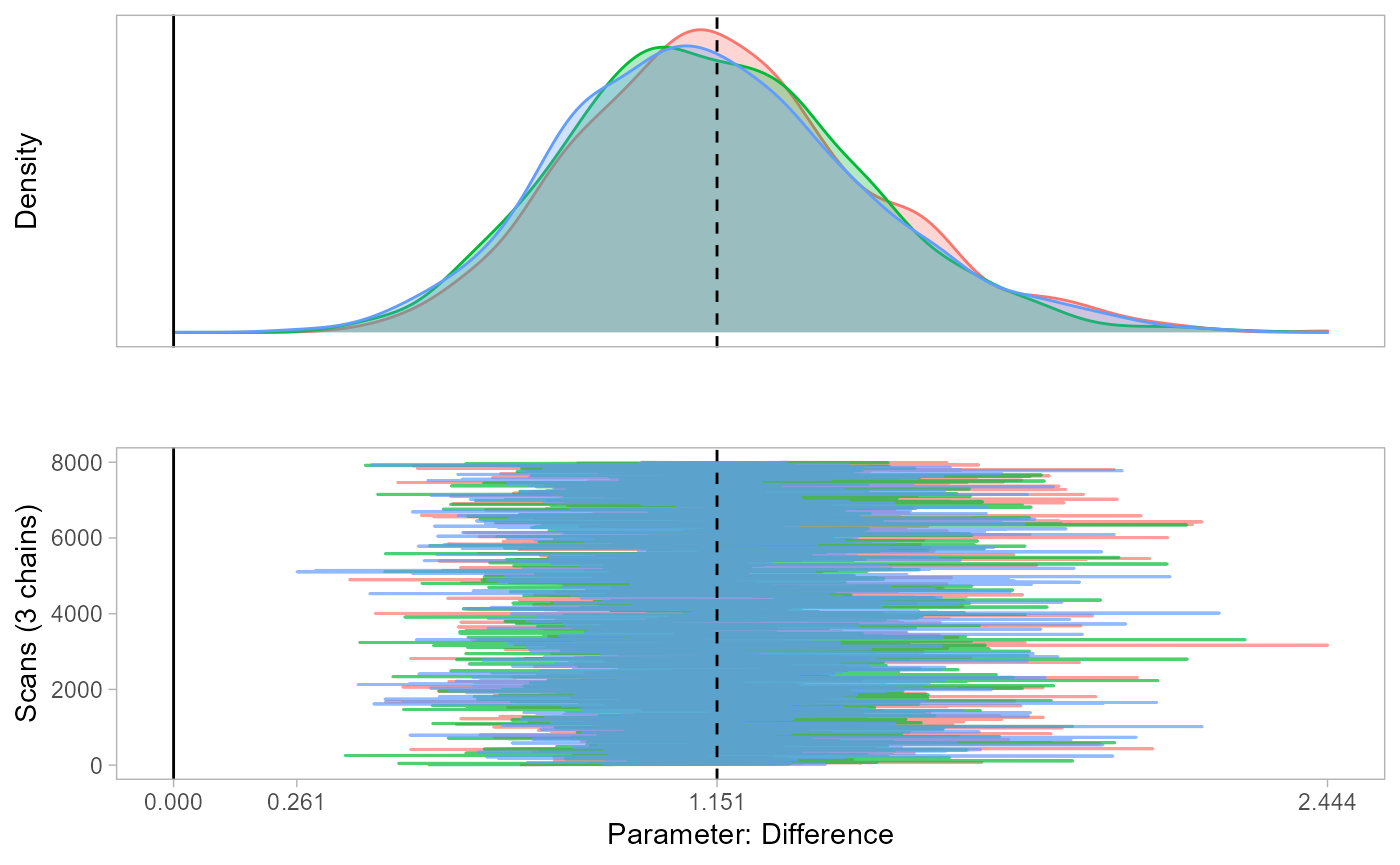
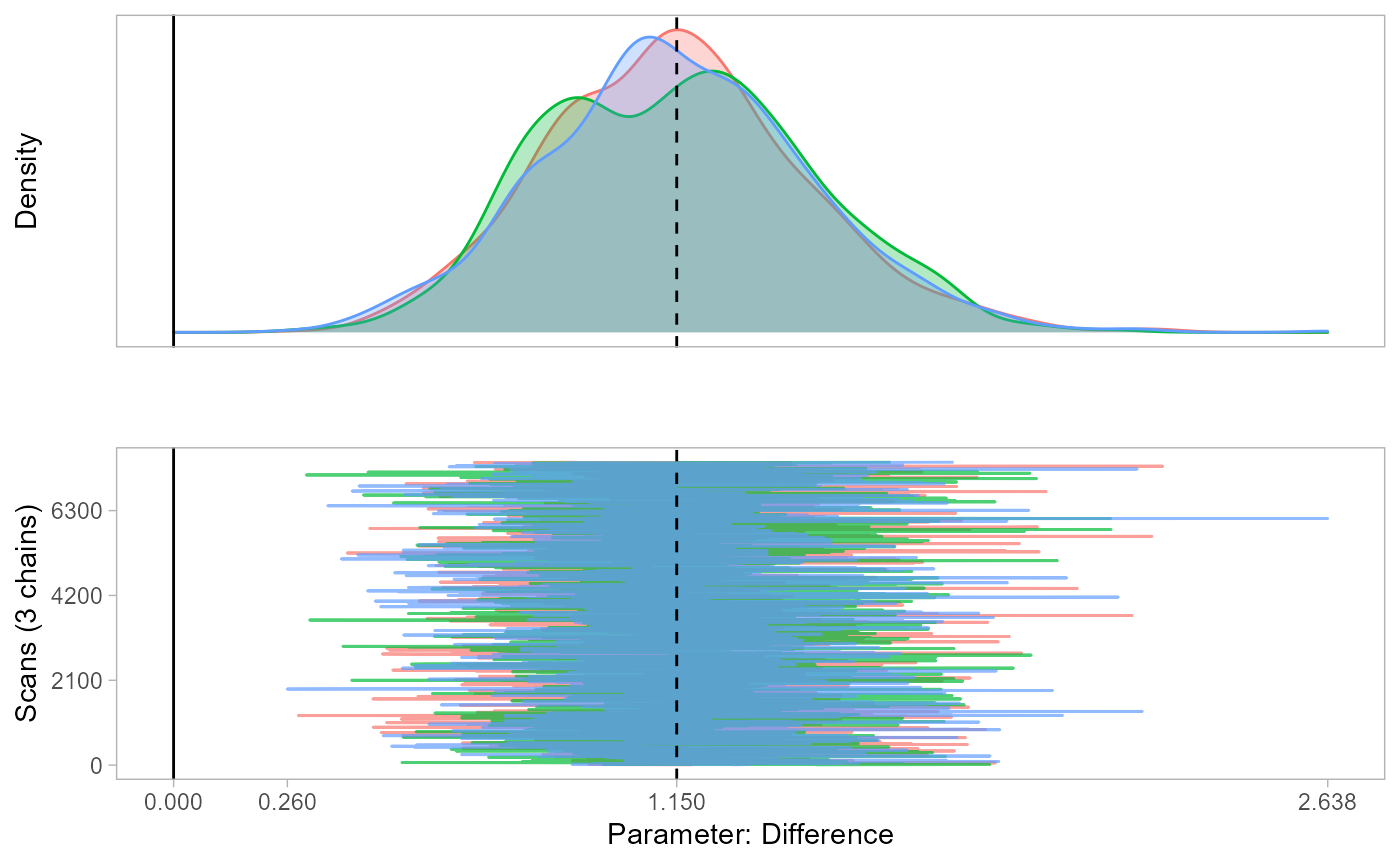
Website update

diff --git a/docs/articles/examples.html b/docs/articles/examples.html
@@ -112,8 +112,8 @@
 <div id="e1" class="section level3">
 <h3 class="hasAnchor">
 <a href="#e1" class="anchor" aria-hidden="true"></a>The effect of air quality on home values</h3>
-<p>The R file of this example can be found <a href="https://benrosche.github.io/rmm/articles/examples_files/mmmm_spatial.Rmd">here</a>.</p>
-<p>This <strong>spatial analysis</strong> example is based on <a href="https://www.sciencedirect.com/science/article/abs/pii/0095069678900062" class="external-link">Harrison &amp; Rubenfield 1978</a>, who study the effect of air quality on home values.</p>
+<p>The R file of this example can be found <a href="C:/Users/benja/OneDrive%20-%20Cornell%20University/GitHub/rmm/docs/articles/examples_files/mmmm_spatial.Rmd">here</a>.</p>
+<p>This <strong>spatial analysis</strong> example is based on <a href="https://www.sciencedirect.com/science/article/abs/pii/0095069678900062" class="external-link">Harrison &amp; Rubenfield 1978</a>, who study the effect of air quality on home values, and a re-analysis by <a href="https://openjournals.wu.ac.at/region/paper_107/107.html" class="external-link">Bivand 2017</a>.</p>
 <p>The study employs census tract data from the Boston Standard Metropolitan Statistical Area in 1970. With tracts containing no housing units or comprised entirely of institutions excluded, the sample contains 506 census tracts. Air quality is measured by the concentration of nitric oxides in the air, which is obtained from a meteorological model (Transportation and Air Shed Simulation Model). I refer to their paper for more information on data and operationalization.</p>
 <p>Let us load in the data and plot the home values across town:</p>
 <div class="sourceCode" id="cb1"><pre class="downlit sourceCode r">
@@ -157,7 +157,7 @@
 <li>
 <strong>Residual spatial effect</strong>: <span class="math inline">\(Y = XB + \lambda Wu + \epsilon\)</span>. This model is labeled <em>spatial error model</em> because the residuals of other spatial units enter the regression equation.</li>
 <li>
-<strong>Exogenous spatial effects</strong>: <span class="math inline">\(Y = XB + WXB + \epsilon\)</span>. This model is labeled the <em>spatial lag model</em> because the covariates of other spatial units enter the regression equation.</li>
+<strong>Exogenous spatial effects</strong>: <span class="math inline">\(Y = XB + WXB + \epsilon\)</span>. This model is labeled the <em>spatial lag-x model</em> because the covariates of other spatial units enter the regression equation.</li>
 <li>
 <strong>Endogenous spatial effect</strong>: <span class="math inline">\(Y = \rho WY + XB + \epsilon\)</span>. This model is labeled the <em>spatial autoregressive model</em> because the outcomes of other spatial units enter the regression equation.</li>
 </ol>
@@ -208,7 +208,7 @@
 <span class="co">#&gt; Number of parameters estimated: 8 </span>
 <span class="co">#&gt; AIC: -339.38, (AIC for lm: 43.904)</span>
 
-<span class="co"># Exogenous spatial effect (spatial lag model):  </span>
+<span class="co"># Exogenous spatial effect (spatial lag-x model):  </span>
 <span class="va">mod2</span> <span class="op">&lt;-</span> <span class="fu"><a href="https://rdrr.io/pkg/spdep/man/spdep-deprecated.html" class="external-link">lmSLX</a></span><span class="op">(</span><span class="va">lnCMEDV</span> <span class="op">~</span> <span class="va">NOX</span> <span class="op">+</span> <span class="va">CRIM</span> <span class="op">+</span> <span class="va">RM</span> <span class="op">+</span> <span class="va">DIS</span> <span class="op">+</span> <span class="va">AGE</span>,
               data <span class="op">=</span> <span class="va">boston</span>,
               listw <span class="op">=</span> <span class="va">boston_wlist</span>,
@@ -281,7 +281,7 @@
 <p><strong>Results</strong>:</p>
 <ol style="list-style-type: decimal">
 <li><p>The spatial error model estimates that after conditioning on those five covariates, the residual is still spatially correlated, as <span class="math inline">\(\lambda=0.84\)</span>.</p></li>
-<li><p>The spatial lag model estimates an exogenous spatial effect for each of the considered covariates. The effect of air quality of neighboring locations, for instance, is estimated to be <span class="math inline">\(\beta=0.09\)</span>. That is, the home values of a given neighborhood increases if the air quality of surrounding neighborhoods decreases.</p></li>
+<li><p>The spatial lag-x model estimates an exogenous spatial effect for each of the considered covariates. The effect of air quality of neighboring locations, for instance, is estimated to be <span class="math inline">\(\beta=0.09\)</span>. That is, the home values of a given neighborhood increases if the air quality of surrounding neighborhoods decreases.</p></li>
 <li><p>The spatial autoregessive (SAR) model estimates a endogenous spatial effect of <span class="math inline">\(\rho=0.67\)</span>. That is, the SAR summarizes the spatial dependency in one coefficient.</p></li>
 </ol>
 <div id="the-mmmm-for-spatial-analysis" class="section level4">
@@ -412,7 +412,7 @@
 <span class="op">(</span><span class="va">lambda2</span> <span class="op">&lt;-</span> <span class="fu">getLambda</span><span class="op">(</span><span class="va">mod.rmm2</span><span class="op">)</span><span class="op">)</span>
 <span class="co">#&gt; [1] 0.7957162</span></code></pre></div>
 <p>Lets look at the <code><a href="../reference/rmm.html">rmm()</a></code> function in more detail by typing <code><a href="../reference/rmm.html">?rmm</a></code>:</p>
-<p><img src="examples_files/rmm-help.jpg" style="width:75.0%"></p>
+<p><img src="examples_files/rmm-help.jpg" style="width:70.0%"></p>
 <p><strong>The formula object</strong></p>
 <p>The most important part is the <code>formula</code> object, which is our case looks like this: <code>lnCMEDV ~ NOX + CRIM + RM + DIS + AGE + mm(id(tid, tid_nb), mmc(NOX_nb + CRIM_nb + RM_nb + DIS_nb + AGE_nb), mmw(w ~ 1/offset(n), constraint=1))</code></p>
 <p>The only change compared to a <code><a href="https://rdrr.io/r/stats/lm.html" class="external-link">lm()</a></code> formula is the <code>mm()</code> container. Within this container, we specify 3 containers, <code>ids()</code> for the ids, <code>mmc()</code> for the considered covariates, and <code>mmw()</code> to endogenize the weight function. Here <code>w ~ 1/offset(n)</code> is specified, which implements the row-standardized weight.</p>
@@ -487,7 +487,7 @@
 <p><strong>Weight function regression</strong></p>
 <p>The MMMM, however, allows to make the weights a function of covariates. That is, instead of assuming a specific weighting regime, we can estimate whether the influence of a neighbor on a location depends on some covariates.</p>
 <p>For this example, I hypothesize that the weight of a neighbor in the total neighborhood effect depends on the similarity between neighbor and focal location, which is an idea I borrow from social network theory.</p>
-<p>I calculate <em>similarity</em> as the average absolute difference between a neighbor and the focal location on the six considered covariates.</p>
+<p>I calculate the <em>similarity</em> as the average absolute difference between a neighbor and the focal location on the six considered covariates (i.e., the opposite of similarity). I call the variable <span class="math inline">\(DIFF\)</span>:</p>
 <div class="sourceCode" id="cb8"><pre class="downlit sourceCode r">
 <code class="sourceCode R"><span class="co"># Homogeneity of focal location to its neighbors </span>
 <span class="va">boston_df2</span> <span class="op">&lt;-</span> <span class="va">boston_df</span> <span class="op"><a href="https://magrittr.tidyverse.org/reference/pipe.html" class="external-link">%&gt;%</a></span> <span class="fu"><a href="https://dplyr.tidyverse.org/reference/mutate.html" class="external-link">mutate</a></span><span class="op">(</span>DIFF<span class="op">=</span><span class="fl">1</span><span class="op">/</span><span class="fl">6</span><span class="op">*</span><span class="op">(</span><span class="fu"><a href="https://rdrr.io/r/base/MathFun.html" class="external-link">abs</a></span><span class="op">(</span><span class="va">NOX</span><span class="op">-</span><span class="va">NOX_nb</span><span class="op">)</span><span class="op">+</span><span class="fu"><a href="https://rdrr.io/r/base/MathFun.html" class="external-link">abs</a></span><span class="op">(</span><span class="va">CRIM</span><span class="op">-</span><span class="va">CRIM_nb</span><span class="op">)</span><span class="op">+</span><span class="fu"><a href="https://rdrr.io/r/base/MathFun.html" class="external-link">abs</a></span><span class="op">(</span><span class="va">RM</span><span class="op">-</span><span class="va">RM_nb</span><span class="op">)</span><span class="op">+</span><span class="fu"><a href="https://rdrr.io/r/base/MathFun.html" class="external-link">abs</a></span><span class="op">(</span><span class="va">DIS</span><span class="op">-</span><span class="va">DIS_nb</span><span class="op">)</span><span class="op">+</span><span class="fu"><a href="https://rdrr.io/r/base/MathFun.html" class="external-link">abs</a></span><span class="op">(</span><span class="va">AGE</span><span class="op">-</span><span class="va">AGE_nb</span><span class="op">)</span><span class="op">+</span><span class="fu"><a href="https://rdrr.io/r/base/MathFun.html" class="external-link">abs</a></span><span class="op">(</span><span class="va">LSTAT</span><span class="op">-</span><span class="va">LSTAT_nb</span><span class="op">)</span><span class="op">)</span><span class="op">)</span></code></pre></div>
@@ -512,7 +512,7 @@
           <span class="fu">mmc</span><span class="op">(</span><span class="va">NOX_nb</span> <span class="op">+</span> <span class="va">CRIM_nb</span> <span class="op">+</span> <span class="va">RM_nb</span> <span class="op">+</span> <span class="va">DIS_nb</span> <span class="op">+</span> <span class="va">AGE_nb</span><span class="op">)</span>,
           <span class="fu">mmw</span><span class="op">(</span><span class="va">w</span> <span class="op">~</span> <span class="fl">1</span><span class="op">/</span><span class="fu"><a href="https://rdrr.io/r/stats/offset.html" class="external-link">offset</a></span><span class="op">(</span><span class="va">n</span><span class="op">)</span><span class="op">^</span><span class="fu"><a href="https://rdrr.io/r/base/Log.html" class="external-link">exp</a></span><span class="op">(</span><span class="op">-</span><span class="va">DIFF</span><span class="op">)</span>, constraint<span class="op">=</span><span class="fl">1</span><span class="op">)</span>
         <span class="op">)</span>,
-      iter <span class="op">=</span> <span class="fl">10000</span>, burnin <span class="op">=</span> <span class="fl">2000</span>, seed<span class="op">=</span><span class="fl">1</span>, monitor <span class="op">=</span> <span class="cn">T</span>,
+      iter <span class="op">=</span> <span class="fl">10000</span>, burnin <span class="op">=</span> <span class="fl">2500</span>, seed<span class="op">=</span><span class="fl">1</span>, monitor <span class="op">=</span> <span class="cn">T</span>,
       data <span class="op">=</span> <span class="va">boston_df2</span><span class="op">)</span>
 <span class="co">#&gt; Compiling model graph</span>
 <span class="co">#&gt;    Resolving undeclared variables</span>
@@ -526,46 +526,48 @@
 
 <span class="va">mod.rmm3</span><span class="op">$</span><span class="va">reg.table</span>
 <span class="co">#&gt;          variable coefficients     sd      lb      ub    ppp</span>
-<span class="co">#&gt; b.l1[1]    NOX_nb      -0.0116 0.0239 -0.0587  0.0352 0.3137</span>
-<span class="co">#&gt; b.l1[2]   CRIM_nb      -0.0367 0.0114 -0.0594 -0.0141 0.0003</span>
-<span class="co">#&gt; b.l1[3]     RM_nb       0.0207 0.0113 -0.0006  0.0435 0.0290</span>
-<span class="co">#&gt; b.l1[4]    DIS_nb      -0.0019 0.0422 -0.0818  0.0814 0.4813</span>
-<span class="co">#&gt; b.l1[5]    AGE_nb      -0.0001 0.0181 -0.0345  0.0353 0.5040</span>
-<span class="co">#&gt; b.l2[1]        X0       3.0239 0.0197  2.9838  3.0620 0.0000</span>
-<span class="co">#&gt; b.l2[2]       NOX      -0.1294 0.0264 -0.1825 -0.0770 0.0000</span>
-<span class="co">#&gt; b.l2[3]      CRIM      -0.0797 0.0103 -0.1002 -0.0591 0.0000</span>
-<span class="co">#&gt; b.l2[4]        RM       0.1281 0.0113  0.1062  0.1506 0.0000</span>
-<span class="co">#&gt; b.l2[5]       DIS      -0.0999 0.0454 -0.1894 -0.0102 0.0120</span>
-<span class="co">#&gt; b.l2[6]       AGE      -0.0867 0.0182 -0.1230 -0.0509 0.0000</span>
-<span class="co">#&gt; b.w[2]       DIFF       1.1507 0.3096  0.6026  1.8211 0.0000</span>
-<span class="co">#&gt; sigma.l1 sigma.l1       0.4013 0.0246  0.3542  0.4519     NA</span>
-<span class="co">#&gt; sigma.l2 sigma.l2       0.1465 0.0071  0.1335  0.1608     NA</span>
-<span class="co">#&gt; DIC           DIC     170.9121     NA      NA      NA     NA</span>
+<span class="co">#&gt; b.l1[1]    NOX_nb      -0.0110 0.0241 -0.0587  0.0348 0.3221</span>
+<span class="co">#&gt; b.l1[2]   CRIM_nb      -0.0364 0.0115 -0.0598 -0.0143 0.0012</span>
+<span class="co">#&gt; b.l1[3]     RM_nb       0.0207 0.0115 -0.0017  0.0442 0.0345</span>
+<span class="co">#&gt; b.l1[4]    DIS_nb      -0.0023 0.0423 -0.0846  0.0793 0.4818</span>
+<span class="co">#&gt; b.l1[5]    AGE_nb      -0.0011 0.0183 -0.0365  0.0345 0.4700</span>
+<span class="co">#&gt; b.l2[1]        X0       3.0239 0.0201  2.9849  3.0630 0.0000</span>
+<span class="co">#&gt; b.l2[2]       NOX      -0.1293 0.0267 -0.1807 -0.0766 0.0000</span>
+<span class="co">#&gt; b.l2[3]      CRIM      -0.0800 0.0103 -0.1007 -0.0597 0.0000</span>
+<span class="co">#&gt; b.l2[4]        RM       0.1285 0.0114  0.1055  0.1502 0.0000</span>
+<span class="co">#&gt; b.l2[5]       DIS      -0.0977 0.0466 -0.1880 -0.0048 0.0209</span>
+<span class="co">#&gt; b.l2[6]       AGE      -0.0853 0.0186 -0.1214 -0.0479 0.0000</span>
+<span class="co">#&gt; b.w[2]       DIFF       1.1499 0.3019  0.5841  1.7665 0.0000</span>
+<span class="co">#&gt; sigma.l1 sigma.l1       0.4020 0.0236  0.3579  0.4500     NA</span>
+<span class="co">#&gt; sigma.l2 sigma.l2       0.1462 0.0071  0.1333  0.1611     NA</span>
+<span class="co">#&gt; DIC           DIC     162.0195     NA      NA      NA     NA</span>
 
 <span class="fu"><a href="../reference/monetPlot.html">monetPlot</a></span><span class="op">(</span><span class="va">mod.rmm3</span>, <span class="st">"b.w[2]"</span>, <span class="st">"Difference"</span><span class="op">)</span></code></pre></div>
 <p><img src="examples_files/figure-html/unnamed-chunk-9-1.png" width="700"></p>
-<p>We find that the difference between location and neighbors significantly impacts the weights. However, opposite to the homophily idea. Those neighbors that are very different to the focal location in terms of air quality, level of crime, etc. have a stronger influence on the home values in the focal neighborhood.</p>
-<p>Such a insight is impossible to generate with the conventional spatial regression package. Let us have a look at the weight estimates:</p>
+<p>We find that the dissimilarity of location and neighbors significantly impacts the weights. However, rather than more similar neighbors having a stronger effect, we find that less similar neighbors are more impactful. That is, the covariates of those neighbors that are very different to the focal location in terms of air quality, level of crime, etc. have a stronger influence on the home values in the focal neighborhood.</p>
+<p>Such a insight is impossible to generate with the conventional spatial regression package!</p>
+<p>Finally, the <code><a href="../reference/rmm.html">rmm()</a></code> function allows us to have a look at the weight estimates:</p>
 <div class="sourceCode" id="cb10"><pre class="downlit sourceCode r">
 <code class="sourceCode R">
 <span class="fu"><a href="https://rdrr.io/r/utils/head.html" class="external-link">head</a></span><span class="op">(</span><span class="fu"><a href="https://rdrr.io/r/base/data.frame.html" class="external-link">data.frame</a></span><span class="op">(</span><span class="va">mod.rmm3</span><span class="op">$</span><span class="va">w</span>, sum<span class="op">=</span><span class="fu"><a href="https://rdrr.io/pkg/Matrix/man/colSums.html" class="external-link">rowSums</a></span><span class="op">(</span><span class="va">mod.rmm3</span><span class="op">$</span><span class="va">w</span>, na.rm <span class="op">=</span> <span class="cn">T</span><span class="op">)</span><span class="op">)</span><span class="op">)</span>
 <span class="co">#&gt;               W1     W2     W3     W4     W5     W6     W7     W8     W9 W10</span>
-<span class="co">#&gt; L2 unit 1 0.0589 0.0675 0.0486 0.0609 0.1410 0.2369 0.2660 0.1203     NA  NA</span>
-<span class="co">#&gt; L2 unit 2 0.3215 0.2543 0.2299 0.1943     NA     NA     NA     NA     NA  NA</span>
-<span class="co">#&gt; L2 unit 3 0.0687 0.0435 0.0309 0.0451 0.1319 0.1478 0.2581 0.2739     NA  NA</span>
-<span class="co">#&gt; L2 unit 4 0.2467 0.2110 0.2931 0.2493     NA     NA     NA     NA     NA  NA</span>
-<span class="co">#&gt; L2 unit 5 0.0367 0.0390 0.0397 0.0620 0.2027 0.2179 0.0886 0.1413 0.1721  NA</span>
-<span class="co">#&gt; L2 unit 6 0.1803 0.1133 0.1423 0.1777 0.2376 0.1488     NA     NA     NA  NA</span>
+<span class="co">#&gt; L2 unit 1 0.0588 0.0674 0.0485 0.0609 0.1410 0.2370 0.2661 0.1202     NA  NA</span>
+<span class="co">#&gt; L2 unit 2 0.3213 0.2544 0.2300 0.1944     NA     NA     NA     NA     NA  NA</span>
+<span class="co">#&gt; L2 unit 3 0.0687 0.0435 0.0309 0.0451 0.1319 0.1478 0.2582 0.2740     NA  NA</span>
+<span class="co">#&gt; L2 unit 4 0.2467 0.2111 0.2930 0.2493     NA     NA     NA     NA     NA  NA</span>
+<span class="co">#&gt; L2 unit 5 0.0366 0.0389 0.0397 0.0620 0.2028 0.2179 0.0886 0.1413 0.1722  NA</span>
+<span class="co">#&gt; L2 unit 6 0.1803 0.1134 0.1423 0.1777 0.2374 0.1488     NA     NA     NA  NA</span>
 <span class="co">#&gt;           W11 W12 W13 W14 W15    sum</span>
-<span class="co">#&gt; L2 unit 1  NA  NA  NA  NA  NA 1.0001</span>
-<span class="co">#&gt; L2 unit 2  NA  NA  NA  NA  NA 1.0000</span>
-<span class="co">#&gt; L2 unit 3  NA  NA  NA  NA  NA 0.9999</span>
+<span class="co">#&gt; L2 unit 1  NA  NA  NA  NA  NA 0.9999</span>
+<span class="co">#&gt; L2 unit 2  NA  NA  NA  NA  NA 1.0001</span>
+<span class="co">#&gt; L2 unit 3  NA  NA  NA  NA  NA 1.0001</span>
 <span class="co">#&gt; L2 unit 4  NA  NA  NA  NA  NA 1.0001</span>
 <span class="co">#&gt; L2 unit 5  NA  NA  NA  NA  NA 1.0000</span>
-<span class="co">#&gt; L2 unit 6  NA  NA  NA  NA  NA 1.0000</span>
+<span class="co">#&gt; L2 unit 6  NA  NA  NA  NA  NA 0.9999</span>
 
 <span class="fu"><a href="https://rdrr.io/r/base/sum.html" class="external-link">sum</a></span><span class="op">(</span><span class="fu"><a href="https://rdrr.io/pkg/Matrix/man/colSums.html" class="external-link">rowSums</a></span><span class="op">(</span><span class="va">mod.rmm3</span><span class="op">$</span><span class="va">w</span>, na.rm <span class="op">=</span> <span class="cn">T</span><span class="op">)</span><span class="op">)</span>
-<span class="co">#&gt; [1] 505.9991</span></code></pre></div>
+<span class="co">#&gt; [1] 506.0016</span></code></pre></div>
+<p>The weights differ across the neighbors of each location but they sum up to 1 (and thus the total of all weights equals 506).</p>
 <p>To do:</p>
 <ul>
 <li>Introduce predict() function</li>

diff --git a/docs/articles/faq.html b/docs/articles/faq.html
@@ -101,8 +101,8 @@
     
     
 <ol style="list-style-type: decimal">
-<li>…</li>
-<li>…</li>
+<li>What’s the difference between the MMMM and a conventional multilevel model?</li>
+<li>What’s the difference between a conventional MMMM and the generalized MMMM?</li>
 </ol>
 </div>
 
